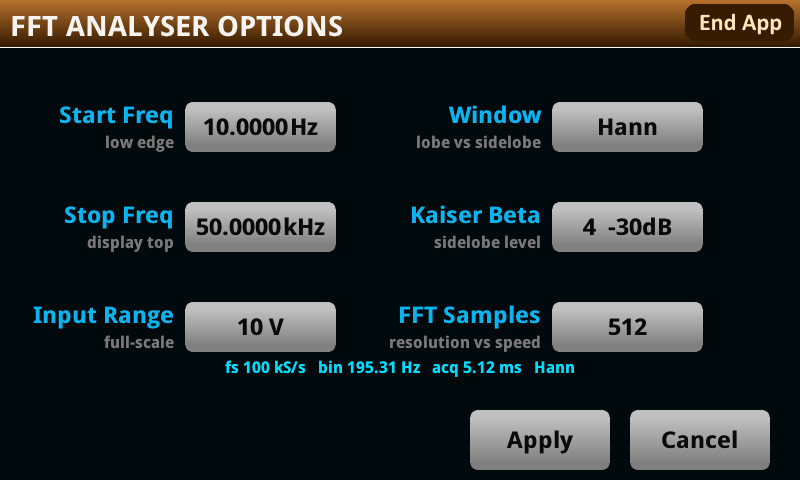
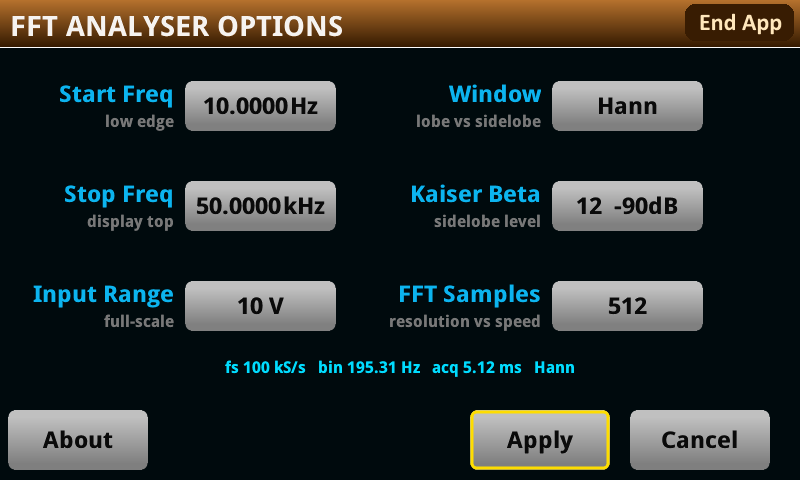
Regenerate the three captures against 2.2, and fix the prose they contradicted
All three were taken before the icon buttons existed, and manual-options.png
predated the About button as well.

The peak paragraph claimed "peak 2 falls at exactly twice peak 1 and 1.0 dB
below it. Peaks 3 to 6 are noise, 74 dB down" -- which described neither the
capture it sat under nor any capture in the repo. The 512-sample shot now has
peaks 2 and 3 as the second and third harmonics at 81 and 82 dB down and peaks
4 to 6 as noise at 84, and the text says that, including that 195 Hz bins put
the harmonic frequencies tens of hertz out where 16,384 samples resolve them
exactly at 25.000 and 37.500 kHz.

The signal is 2 Vpp from the generator, which the front terminals read as
1.0014 V and the app reports as 0.0 dBV -- so every "1.0012 V" and "1.0013 V"
in the alt text moves to 1.0014.

diff --git a/docs/MANUAL.md b/docs/MANUAL.md
@@ -8,7 +8,7 @@ screen and buffer the app made.
 
 ## The spectrum screen
 
-![The spectrum screen: a 12.5 kHz 1.0012 V tone reading 0.0 dBV as a single 195 Hz-wide lump, over a 10 Hz to 50 kHz span at 512 samples with the Hann window. The vertical axis is labelled +020.0dB down to -120.0dB and the horizontal axis +00.00kHz to +40.00kHz, both by the firmware. The noise floor sits near -100 dB](manual-spectrum.png)
+![The spectrum screen: a 12.5 kHz 1.0014 V tone reading 0.0 dBV as a single 195 Hz-wide lump, over a 10 Hz to 50 kHz span at 512 samples with the Hann window. The vertical axis is labelled +020.0dB down to -120.0dB and the horizontal axis +00.00kHz to +40.00kHz, both by the firmware. The noise floor sits near -100 dB. A padlock button, open, and a cog button sit to the right of the peak table](manual-spectrum.png)
 
 +20 to −120 dBV against frequency. By default, 512 samples a frame, 256 bins, 10 frames a second.
 Options offers larger records for finer bin spacing, at a slower update rate.
@@ -33,8 +33,10 @@ Six peaks, strongest first, in two columns:
 1  21.100 kHz   4.5122 V   13.1 dBV
 ```
 
-In the capture, peak 2 falls at exactly twice peak 1 and 1.0 dB below it. Peaks 3 to 6 are noise,
-74 dB down.
+In the capture, peaks 2 and 3 are the tone's second and third harmonics, 81 and 82 dB down; peaks 4
+to 6 are noise, 84 dB down. At 195 Hz bins the harmonics sit close enough to the floor that their
+frequencies read tens of hertz out — 24.927 kHz for one that is really 25.000. The 16,384-sample
+capture further down resolves them exactly.
 
 Two buttons sit to the right of the peak table: a **padlock**, which locks the view, and a **cog**,
 which opens Options.
@@ -58,7 +60,7 @@ that moved.
 
 ## Options
 
-![The options form: Start Freq, Stop Freq and Input Range in the left column, Window, Kaiser Beta and FFT Samples in the right, with the preview line beneath and About, Apply and Cancel along the bottom](manual-options.png)
+![The options form: Start Freq, Stop Freq and Input Range in the left column, Window, Kaiser Beta and FFT Samples in the right, with the preview line beneath and About, Apply and Cancel along the bottom. Start Freq reads 10.0000 Hz, Stop Freq 50.0000 kHz, Input Range 10 V, Window Hann, Kaiser Beta 12 -90dB and FFT Samples 512](manual-options.png)
 
 | Field | |
 |---|---|
@@ -266,11 +268,12 @@ Three consequences, and the first is the point of it:
 
 ![The spectrum screen at 16384 samples: the 12.5 kHz tone as a narrow spike at 0.0 dBV, its second
 and third harmonics resolved as separate spikes at 25.000 and 37.500 kHz, and the noise floor drawn
-as a single line near -100 dB. The axes are the firmware's own, +020.0dB to -120.0dB and +00.00kHz to
+as a single line near -100 dB, with the padlock and cog buttons right of the peak table. The axes are the firmware's own, +020.0dB to -120.0dB and +00.00kHz to
 +40.00kHz](manual-spectrum-16384.png)
 
 Compare the 512-sample shot at the top of this manual, where the same tone is a single 195 Hz-wide
-lump and the harmonics are lost in the floor.
+lump and the harmonics are down in the noise of the trace — the table still finds them, a few tens
+of hertz out.
 
 Because each column reports its maximum, the noise floor reads about 6 dB high and as an upper
 envelope rather than a band. Writing the minimum as well was tried and withdrawn: it doubled the

diff --git a/README.md b/README.md
@@ -4,8 +4,8 @@ A real-time FFT spectrum analyser for the Keithley DMM6500, DAQ6510 and DMM7510,
 on the instrument** as a TSP app. The digitizer captures, the instrument computes the transform in
 Lua, and the firmware's own graph object draws the trace. No host, no PC software.
 
-![The spectrum screen at 16,384 samples: a 12.5 kHz 1.0013 V tone reading 0.0 dBV as a narrow spike, its 
-second and third harmonics resolved as separate lines at 25.000 and 37.500 kHz, 83 dB down, over a 10 Hz 
+![The spectrum screen at 16,384 samples: a 12.5 kHz 1.0014 V tone reading 0.0 dBV as a narrow spike, its 
+second and third harmonics resolved as separate lines at 25.000 and 37.500 kHz, 81 and 83 dB down, over a 10 Hz 
 to 50 kHz span with 6.1 Hz bins. The firmware labels the axes itself, +020.0dB down to -120.0dB and 
 +00.00kHz across to +40.00kHz](docs/manual-spectrum-16384.png)
 
